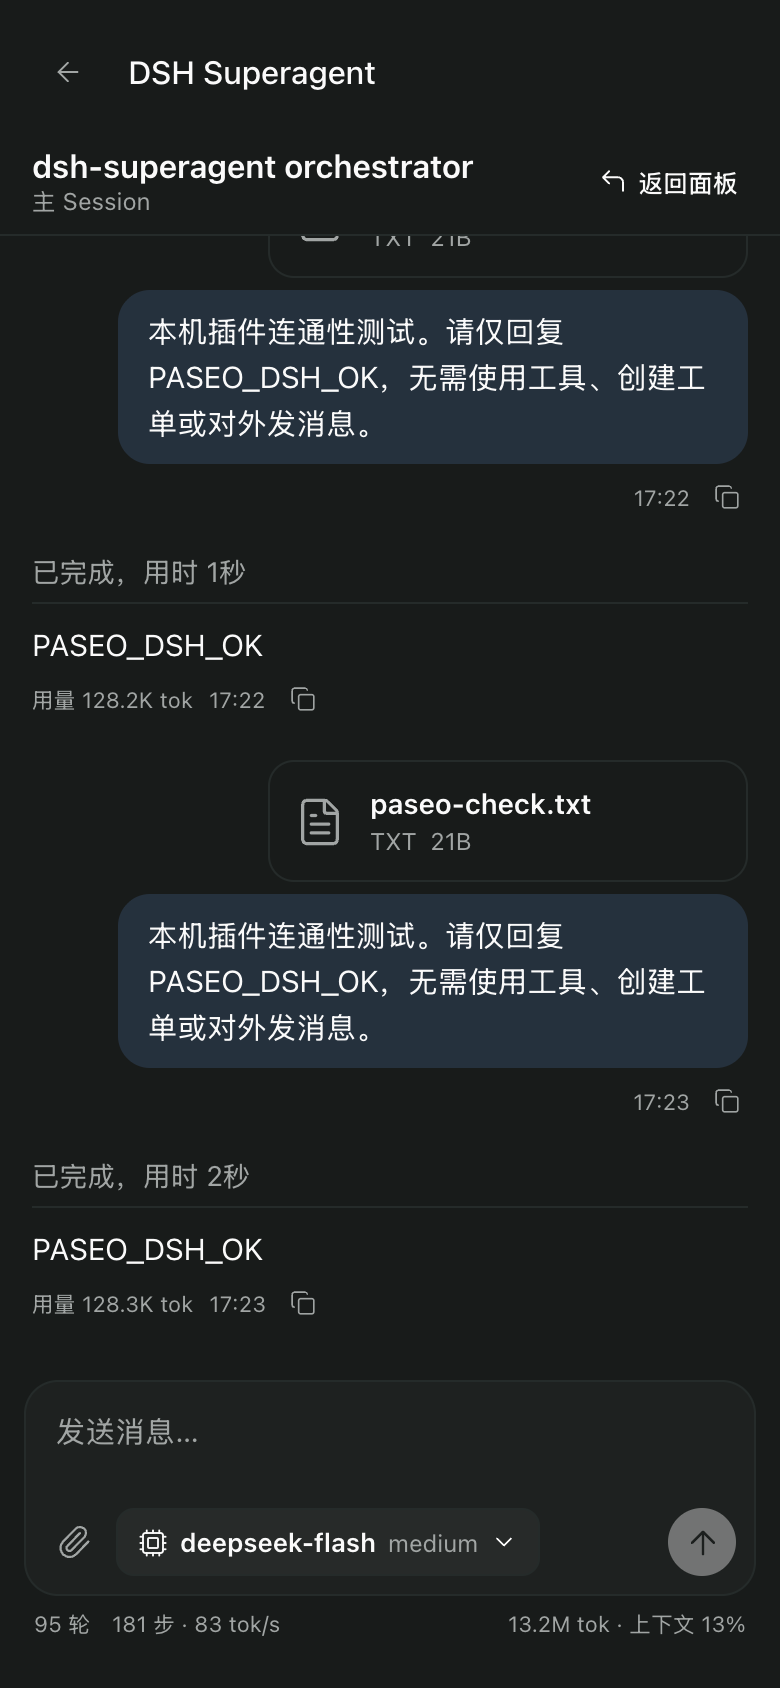
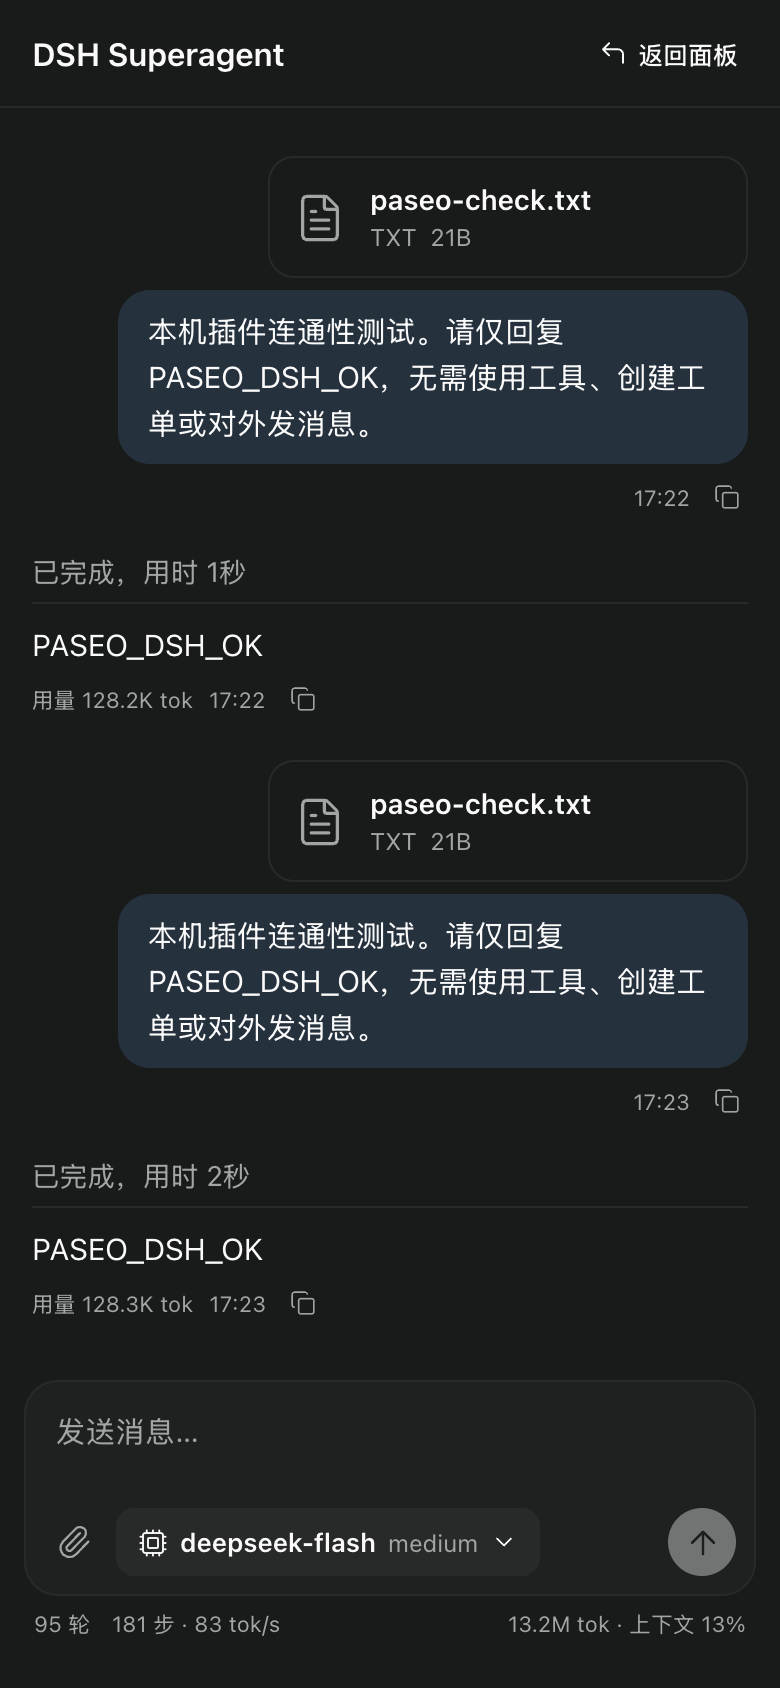
Use one mobile session header with the panel return action

diff --git a/client/router.tsx b/client/router.tsx
@@ -1,11 +1,13 @@
 import { useEffect, useMemo, useRef, useState } from "react";
 import {
+  KeyboardAvoidingView,
+  Modal as NativeModal,
   Platform,
   Pressable,
+  SafeAreaView,
   ScrollView,
   Text,
   TextInput,
-  useWindowDimensions,
   View,
 } from "react-native";
 import { useRpc, type PluginScreenProps } from "@getpaseo/plugin/client";
@@ -61,6 +63,7 @@ export function Router({
   theme,
   host,
   expected,
+  layout,
   back,
 }: PluginScreenProps & { expected?: string; back: () => void }) {
   const history = useRpc(transcript),
@@ -159,14 +162,55 @@ export function Router({
     await q.refetch();
   }
   const colors = theme.colors;
-  const compact = useWindowDimensions().width < 680;
+  const compact = layout.compact;
   const closeChoices = () => {
     setChoices([]);
     setChosen(null);
   };
-  return (
+  const pickerTitle = chosen ? "推理强度" : "选择模型";
+  const pickerOpen = choices.length > 0;
+  const pickerItems = pickerOpen && (
+    <>
+      {chosen
+        ? [{ id: "", name: "默认" }, ...chosen.efforts].map((e) => (
+            <Action
+              key={e.id}
+              theme={theme}
+              disabled={pending}
+              selected={chosen.model === data?.model && e.id === data?.effort}
+              onPress={() => run(() => choose(chosen, e.id || undefined))}
+            >
+              {e.name}
+            </Action>
+          ))
+        : choices.map((m) => (
+            <Action
+              key={m.provider + "/" + m.model}
+              theme={theme}
+              disabled={pending}
+              selected={m.model === data?.model}
+              onPress={() =>
+                m.efforts.length ? setChosen(m) : run(() => choose(m))
+              }
+            >
+              {m.label}
+            </Action>
+          ))}
+      <Action theme={theme} onPress={closeChoices}>
+        取消
+      </Action>
+    </>
+  );
+  const conversation = (
     <ChatContext.Provider value={{ theme, hostId: host.id, instance, report }}>
-      <View style={{ flex: 1, backgroundColor: colors.surface0 }}>
+      <View
+        style={{ flex: 1, backgroundColor: colors.surface0 }}
+        accessibilityElementsHidden={compact && pickerOpen}
+        importantForAccessibility={
+          compact && pickerOpen ? "no-hide-descendants" : "auto"
+        }
+        aria-hidden={compact && pickerOpen}
+      >
         <View
           style={{
             flexDirection: "row",
@@ -183,9 +227,9 @@ export function Router({
             style={{
               flex: 1,
               minWidth: 0,
-              flexDirection: compact ? "column" : "row",
-              alignItems: compact ? "flex-start" : "center",
-              gap: compact ? 1 : 8,
+              flexDirection: "row",
+              alignItems: "center",
+              gap: 8,
             }}
           >
             <Text
@@ -198,11 +242,13 @@ export function Router({
                 flexShrink: 1,
               }}
             >
-              {data?.title || "Router"}
+              {compact ? "DSH Superagent" : data?.title || "Router"}
             </Text>
-            <Text numberOfLines={1} style={{ color: muted, fontSize: 12 }}>
-              主 Session
-            </Text>
+            {!compact && (
+              <Text numberOfLines={1} style={{ color: muted, fontSize: 12 }}>
+                主 Session
+              </Text>
+            )}
           </View>
           <Action theme={theme} onPress={back} label="返回 Superagent">
             <View
@@ -281,46 +327,7 @@ export function Router({
             </Text>
           )}
         </ScrollView>
-        <Modal
-          title={chosen ? "推理强度" : "选择模型"}
-          open={choices.length > 0}
-          onOpenChange={(open) => {
-            if (!open) closeChoices();
-          }}
-        >
-          <Modal.Content>
-            {chosen
-              ? [{ id: "", name: "默认" }, ...chosen.efforts].map((e) => (
-                  <Action
-                    key={e.id}
-                    theme={theme}
-                    disabled={pending}
-                    selected={
-                      chosen.model === data?.model && e.id === data?.effort
-                    }
-                    onPress={() => run(() => choose(chosen, e.id || undefined))}
-                  >
-                    {e.name}
-                  </Action>
-                ))
-              : choices.map((m) => (
-                  <Action
-                    key={m.provider + "/" + m.model}
-                    theme={theme}
-                    disabled={pending}
-                    selected={m.model === data?.model}
-                    onPress={() =>
-                      m.efforts.length ? setChosen(m) : run(() => choose(m))
-                    }
-                  >
-                    {m.label}
-                  </Action>
-                ))}
-            <Action theme={theme} onPress={closeChoices}>
-              取消
-            </Action>
-          </Modal.Content>
-        </Modal>
+
         <View
           style={{
             width: "100%",
@@ -508,5 +515,78 @@ export function Router({
         </View>
       </View>
     </ChatContext.Provider>
+  );
+  return compact ? (
+    <NativeModal
+      visible
+      presentationStyle="fullScreen"
+      onRequestClose={pickerOpen ? closeChoices : back}
+    >
+      <SafeAreaView style={{ flex: 1, backgroundColor: colors.surface0 }}>
+        <KeyboardAvoidingView
+          behavior={Platform.OS === "ios" ? "padding" : undefined}
+          style={{ flex: 1 }}
+        >
+          {conversation}
+          {pickerOpen && (
+            <View
+              accessibilityViewIsModal
+              style={{
+                position: "absolute",
+                top: 0,
+                bottom: 0,
+                left: 0,
+                right: 0,
+                justifyContent: "flex-end",
+                backgroundColor: "rgba(0,0,0,0.4)",
+              }}
+            >
+              <Pressable
+                accessible={false}
+                onPress={closeChoices}
+                style={{ flex: 1 }}
+              />
+              <View
+                style={{
+                  maxHeight: "80%",
+                  backgroundColor: colors.surface1,
+                  borderTopLeftRadius: 16,
+                  borderTopRightRadius: 16,
+                  padding: 16,
+                }}
+              >
+                <Text
+                  accessibilityRole="header"
+                  style={{
+                    color,
+                    fontSize: 16,
+                    fontWeight: "600",
+                    marginBottom: 8,
+                  }}
+                >
+                  {pickerTitle}
+                </Text>
+                <ScrollView keyboardShouldPersistTaps="handled">
+                  {pickerItems}
+                </ScrollView>
+              </View>
+            </View>
+          )}
+        </KeyboardAvoidingView>
+      </SafeAreaView>
+    </NativeModal>
+  ) : (
+    <>
+      {conversation}
+      <Modal
+        title={pickerTitle}
+        open={pickerOpen}
+        onOpenChange={(open) => {
+          if (!open) closeChoices();
+        }}
+      >
+        <Modal.Content>{pickerItems}</Modal.Content>
+      </Modal>
+    </>
   );
 }
